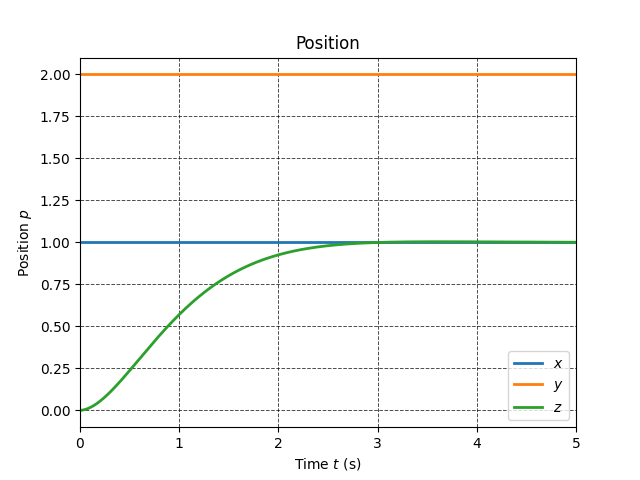
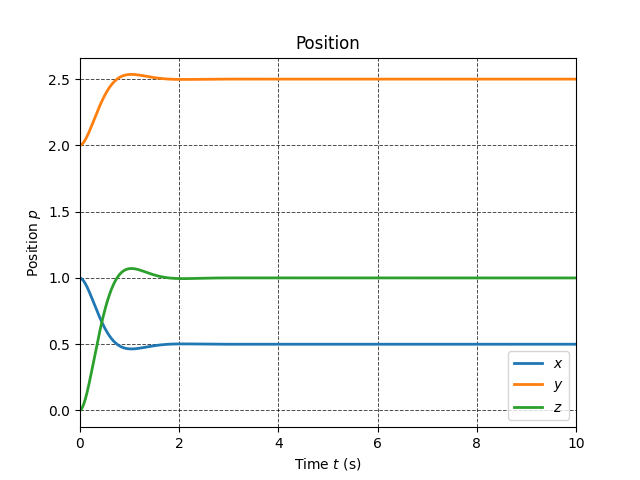
ID control in regressor form

diff --git a/Brick/main.py b/Brick/main.py
@@ -88,7 +88,6 @@ def desired_trajectory(t, traj_params, period):
     return p_d, v_d, q_d, angVel_d
 
 
-
 def vect2quat(v):
     return np.concatenate([[0], v])
 
@@ -119,12 +118,6 @@ def euler2quat(roll, pitch, yaw):
         qw = np.cos(roll/2) * np.cos(pitch/2) * np.cos(yaw/2) + np.sin(roll/2) * np.sin(pitch/2) * np.sin(yaw/2)
         return [qw, qx, qy, qz]
 
-# qu = [1.5, -1, 0, -7]
-# qu = qu/np.linalg.norm(qu)
-# print(qu)
-# sample = quat2euler_angles(qu)
-# print(euler2quat(sample[0], sample[1], sample[2]))
-
 
 def system(state, t, u):
     m, g = system_params['m'], system_params['g']
@@ -136,6 +129,7 @@ def system(state, t, u):
 
     # equation 1 dp=dp
     dr = v
+
     # equation 2
     u_v = u[0]
     dv = u_v - np.array([0, 0, -g])
@@ -154,42 +148,45 @@ def system(state, t, u):
     return dstate
 
 
-def control(state, t, r_d, v_d, q_d, w_d):
-    m, g = system_params['m'], system_params['g']
-    r_actual, v_actual, q_actual, w_actual = state[:3], state[3:6], state[6:10], state[10:13]
-
-    K_pos = control_params['K_pos']
-    K_att = control_params['K_att']
-
-    theta_actual = 2 * ln_quat(q_actual)
-    theta_d = 2 * ln_quat(q_d)
-    x_att_err = np.concatenate([theta_actual - theta_d, w_actual - w_d])
-    u_att = -K_att @ x_att_err
-
-    x_pos_err = np.concatenate([r_actual-r_d, v_actual - v_d])
-    u_pos = -K_pos @ x_pos_err + np.array([0, 0, -g])
-
-    return u_pos, u_att
-
-
 # def control(state, t, r_d, v_d, q_d, w_d):
-#     m = system_params['m']
-
-#     K_p = control_params['K1']
-#     K_d = control_params['K2']
-
+#     m, g = system_params['m'], system_params['g']
 #     r_actual, v_actual, q_actual, w_actual = state[:3], state[3:6], state[6:10], state[10:13]
+
+#     K_pos = control_params['K_pos']
+#     K_att = control_params['K_att']
+
 #     theta_actual = 2 * ln_quat(q_actual)
 #     theta_d = 2 * ln_quat(q_d)
+#     x_att_err = np.concatenate([theta_actual - theta_d, w_actual - w_d])
+#     u_att = -K_att @ x_att_err
+
+#     x_pos_err = np.concatenate([r_actual-r_d, v_actual - v_d])
+#     u_pos = -K_pos @ x_pos_err + np.array([0, 0, -g])
+
+#     return u_pos, u_att
+
+
+def control(state, t, r_d, v_d, q_d, w_d):
+    m = system_params['m']
+
+    K_p = control_params['K1']
+    K_d = control_params['K2']
+
+    r_actual, v_actual, q_actual, w_actual = state[:3], state[3:6], state[6:10], state[10:13]
     
-#     params = p(system_params)
+    params = p(system_params)
 
-#     u_w = -K_p @ (theta_actual - theta_d) - K_d @ (w_actual - w_d)
-#     u_v = -K_p @ (r_actual - r_d) - K_d @ (v_actual - v_d)
-#     Y = regressor(w_actual, u_w, u_v)
+    q_err = quaternion_product(q_d, conjugate(q_actual))
+    if q_err[0]<0:
+        q_err_axis = -np.array(q_err[1:])
+    else:
+        q_err_axis = np.array(q_err[1:])
 
-#     u = Y @ params
-#     return m ** (-1) * u[:3], u[3:]
+    u_w = -K_p @ q_err_axis + K_d @ (w_d - w_actual)
+    u_v = K_p @ (r_d - r_actual) + K_d @ (v_d - v_actual)
+    Y = regressor(w_actual, u_w, u_v)
+    u = Y @ params
+    return m ** (-1) * u[:3], u[3:]
 
 
 def L(w):
@@ -226,7 +223,7 @@ def simulate_system(state_init, frequency, t_0, t_final):
     t_star = np.linspace(0, dT, 10)
     per = 3
     state_prev = state_init
-    states, angles = [], []
+    states, quats, angles = [], [], []
     U_pos, U_att = [], []
     for i in range(len(t)):
         t_curr = t[i]
@@ -237,7 +234,7 @@ def simulate_system(state_init, frequency, t_0, t_final):
                            args=(u,))
         state_prev = state[-1]
 
-        # quats.append(state_prev[6:10])
+        quats.append(state_prev[6:10])
         # d_w.append(state_prev[4:7])
         states.append(state_prev)
         angle = Rotation.from_quat(state_prev[6:10])
@@ -246,15 +243,16 @@ def simulate_system(state_init, frequency, t_0, t_final):
         U_att.append(u[1])
 
     states = np.array(states)
-
+    quats = np.array(quats)
     angles = np.array(angles)
     U_pos = np.array(U_pos)
     U_att = np.array(U_att)
 
+
     figure()
     text = ['$q_0$', '$q_1$', '$q_2$', '$q_3$']
     for i in range(4):
-        plot(t, states[:,i+6], linewidth=2.0, label=str(text[i]))
+        plot(t, quats[:,i], linewidth=2.0, label=str(text[i]))
     grid(color='black', linestyle='--', linewidth=0.7, alpha=0.7)
     xlim([t_0, t_final])
     ylabel(r'Quaternion ${q}$')
@@ -407,13 +405,13 @@ def simulate_system(state_init, frequency, t_0, t_final):
     ani = animation.FuncAnimation(fig, animate, frames=np.shape(data)[1],
                                     interval=dT) #repeat=False,
                                     
-    # writer = animation.PillowWriter(fps=100)
-    # ani.save('Brick/animation.gif', writer=writer)
+    writer = animation.PillowWriter(fps=100)
+    ani.save('Brick/animation.gif', writer=writer)
     show()
 
 
 t0 = 0
-tf = 5.0
+tf = 10.0
 freq = 100
 dT = 1/freq
 
@@ -433,8 +431,9 @@ I = np.array([[Ixx, Ixy, Ixz],
               [Iyx, Iyy, Iyz],
               [Izx, Izy, Izz]])
 
-K1 = np.diag([3, 3, 3])
+K1 = np.diag([15, 15, 15])
 K2 = np.diag([5, 5, 5])
+
 K_pos = np.block([K1, K1])
 K_att = np.block([K2, K2])
 
@@ -469,10 +468,9 @@ control_params = {'K1': K1, 'K2': K2,
 # print(rot.as_euler('xyz'))
 
 quat_0 = Rotation.from_euler('xyz', [0, 0, 0], degrees=True).as_quat()
-quat_d = Rotation.from_euler('xyz', [0, 90, 0], degrees=True).as_quat()
-
+quat_d = Rotation.from_euler('xyz', [-20, 30, 30], degrees=True).as_quat()
 print(quat_0, quat_d)
-# quat_0 = quat_0/np.linalg.norm(quat_0)
+
 
 # initial position, velocity, quaternion, angular velocity
 x0 = [1., 2.0, 0.0,
@@ -481,7 +479,7 @@ x0 = [1., 2.0, 0.0,
       0., 0., 0.]
 x0[6:10] = quat_0
 
-trajectory_params = {'state_d': [1, 2., 1,
+trajectory_params = {'state_d': [0.5, 2.5, 1,
                                  0., 0., 0.,
                                  quat_d[0], quat_d[1], quat_d[2], quat_d[3],
                                  0., 0., 0.]}
